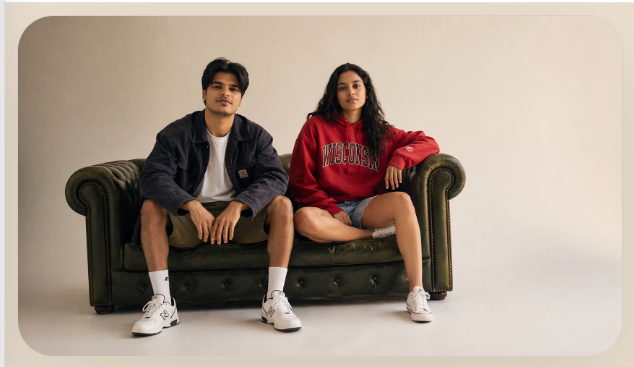
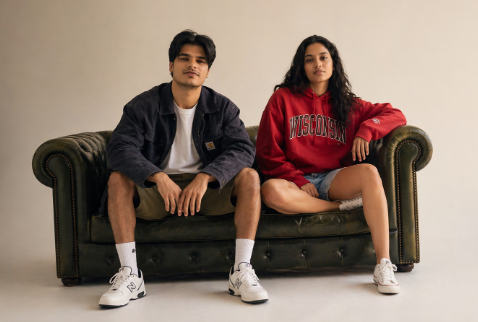
fix(home): swap to wider couple shot, fix mobile crop, soften image so headline pops
- Replace hero-couple.png with wider editorial frame (full sofa, both
  subjects centered) so mobile crop doesn't chop heads
- Bump min-heights so the photo gets enough room on small screens
- object-[center_30%] on mobile keeps faces in frame; object-center on md+
- Add soft white-left gradient + 6% white wash so the WEAR WHAT THEY
  CAN'T headline reads brighter against the photo

diff --git a/apps/web/components/home/HomeHero.tsx b/apps/web/components/home/HomeHero.tsx
@@ -34,15 +34,24 @@ export default function HomeHero() {
             </div>
 
             {/* RIGHT — product image */}
-            <div className="relative min-h-[220px] overflow-hidden sm:min-h-[280px] md:min-h-[420px] lg:min-h-[520px]">
+            <div className="relative min-h-[260px] overflow-hidden sm:min-h-[320px] md:min-h-[460px] lg:min-h-[560px]">
               <Image
                 src="/hero-couple.png"
                 alt="ROORQ — couple on a chesterfield sofa wearing curated vintage streetwear"
                 fill
                 priority
-                quality={85}
-                sizes="(max-width: 768px) 50vw, 50vw"
-                className="object-cover object-center"
+                quality={90}
+                sizes="(max-width: 768px) 50vw, (max-width: 1280px) 50vw, 50vw"
+                className="object-cover object-[center_30%] sm:object-[center_35%] md:object-center"
+              />
+              {/* soft wash + left fade so the headline reads brighter */}
+              <div
+                className="pointer-events-none absolute inset-0 bg-gradient-to-r from-white/45 via-white/5 to-white/0"
+                aria-hidden="true"
+              />
+              <div
+                className="pointer-events-none absolute inset-0 bg-white/[0.06]"
+                aria-hidden="true"
               />
             </div>
           </div>
